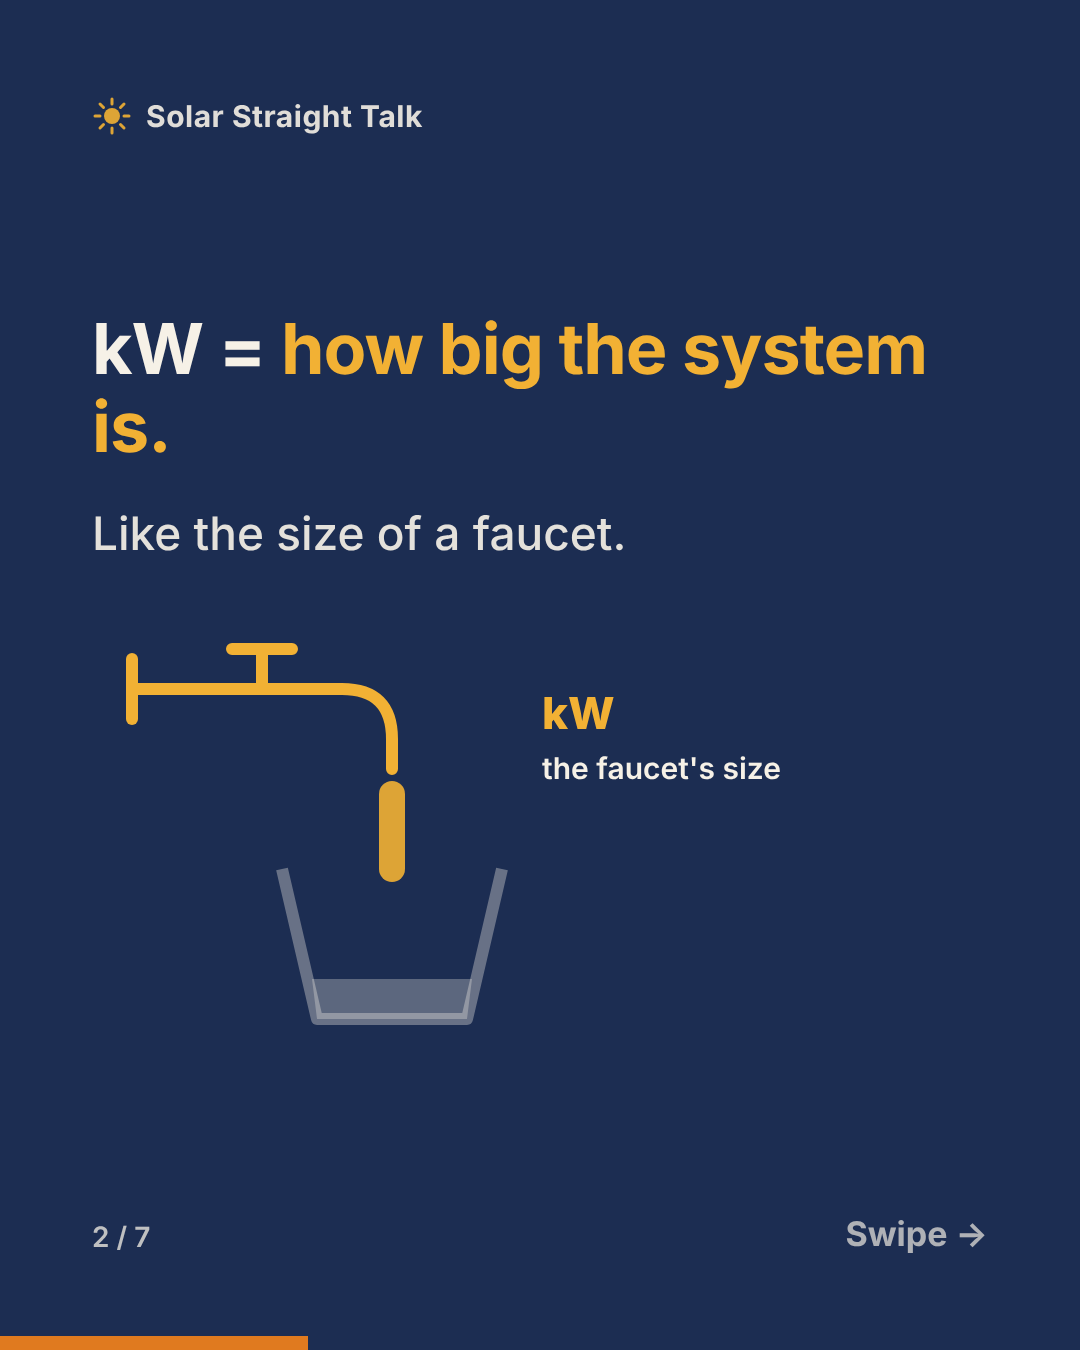
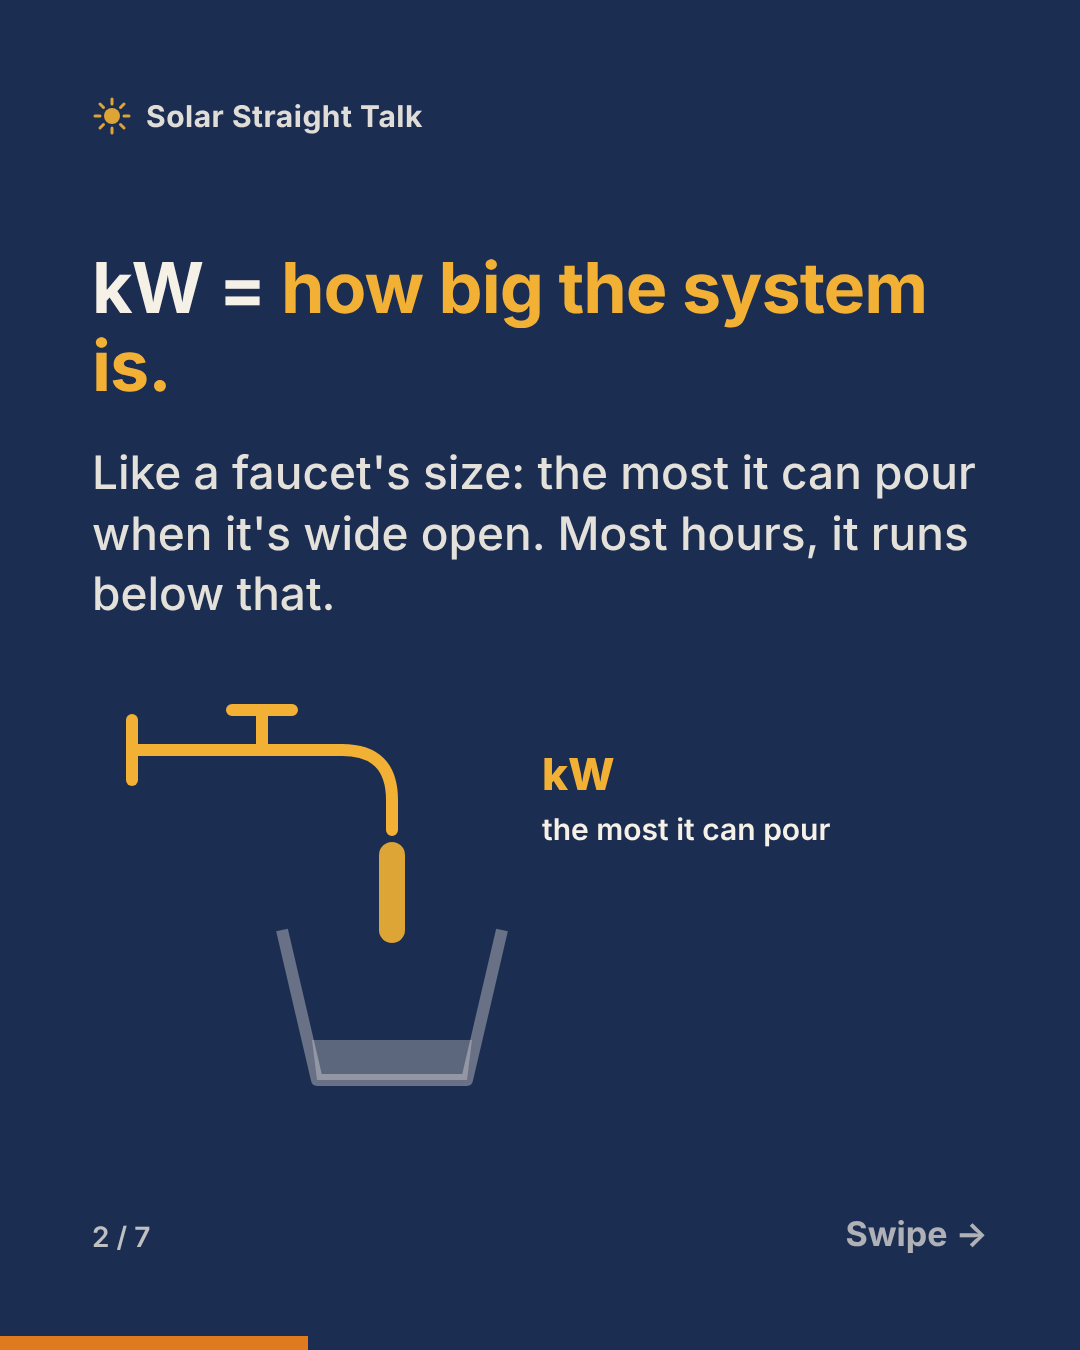
j02: slide 2 faucet wording per Mason (rating = most it can pour; runs below most hours); slide 4 scoped to home bill; re-render drafts

diff --git a/renderer/render.py b/renderer/render.py
@@ -221,7 +221,7 @@ def faucet_svg(hl):
 </g>
 <path d="M{213 if hl == "bucket" else 220} {310 if hl == "bucket" else 360} L225 400 H375 L{387 if hl == "bucket" else 380} {310 if hl == "bucket" else 360} Z" fill="{bc}" opacity="0.85"></path>
 <text x="450" y="{110 if hl == "faucet" else 330}" fill="{Y}" font-size="44" font-weight="800">{"kW" if hl == "faucet" else "kWh"}</text>
-<text x="450" y="{160 if hl == "faucet" else 380}" fill="{C}" font-size="30" font-weight="600">{"the faucet's size" if hl == "faucet" else "what's in the bucket"}</text>
+<text x="450" y="{160 if hl == "faucet" else 380}" fill="{C}" font-size="30" font-weight="600">{"the most it can pour" if hl == "faucet" else "what's in the bucket"}</text>
 </svg>'''
 
 
